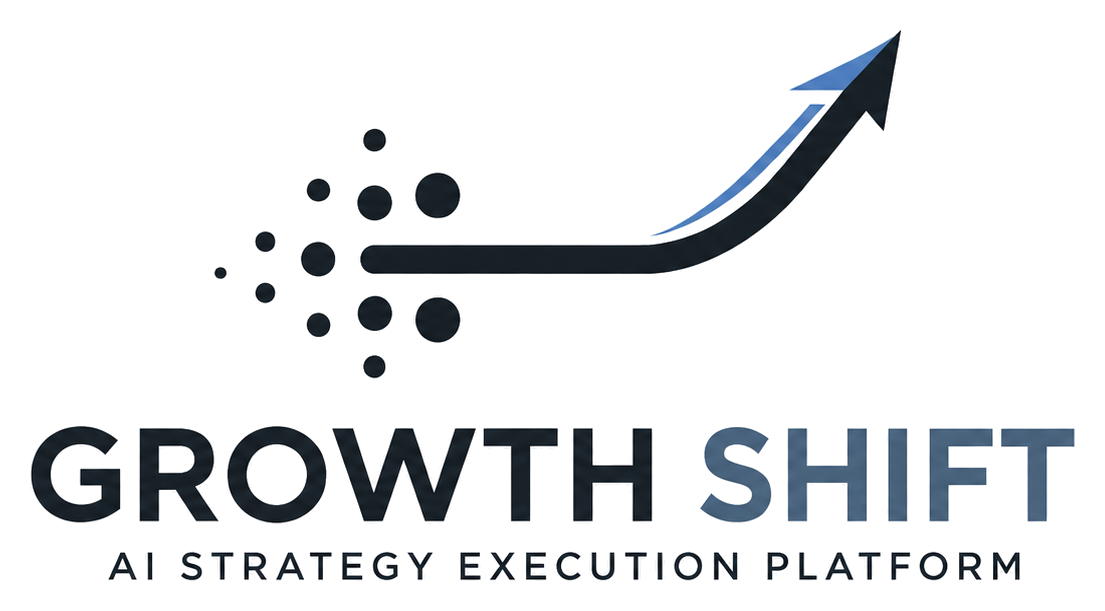
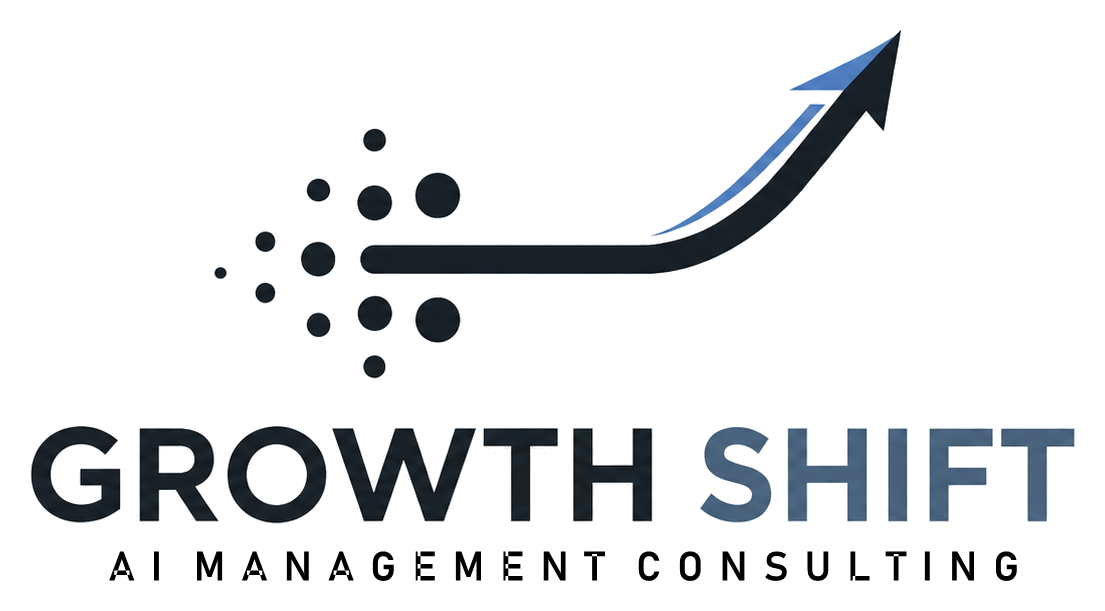
feat(home): トップの導線ボタンを削除し、サイドバーロゴの英字表記を変更する

Changed region(s): [[0.0923, 0.9018, 0.9231, 0.964]]

diff --git a/app/page.tsx b/app/page.tsx
@@ -1,7 +1,6 @@
 'use client';
 
 import { useEffect } from 'react';
-import Link from 'next/link';
 import PyramidNavigator from '@/components/home/PyramidNavigator';
 import ExecutionPanel from '@/components/home/ExecutionPanel';
 import { ExportPdfButton } from '@/components/export/ExportPdfButton';
@@ -31,7 +30,7 @@ export default function Home() {
     <main className="min-h-screen bg-neutral-50 text-neutral-900">
       {/* ===== Hero ===== */}
       <section className="border-b border-neutral-200/60 bg-neutral-50 xl:dark:border-neutral-900 xl:dark:bg-neutral-950">
-        <div className="container mx-auto px-6 pt-10 pb-4 sm:pt-12 sm:pb-5 lg:pt-14 lg:pb-6">
+        <div className="container mx-auto px-6 pt-10 pb-8 sm:pt-12 sm:pb-10 lg:pt-14 lg:pb-12">
           <div className="mx-auto max-w-3xl text-center">
             <motion.h1
               initial={{ opacity: 0, y: 12 }}
@@ -60,26 +59,6 @@ export default function Home() {
               
 
             </motion.p>
-
-            <motion.div
-              initial={{ opacity: 0, y: 14 }}
-              animate={{ opacity: 1, y: 0 }}
-              transition={{ duration: 0.74, delay: 0.18 }}
-              className="mt-6 flex items-center justify-center gap-3 sm:flex-row"
-            >
-              <Link
-                href="/stage1"
-                className="inline-flex items-center justify-center rounded-full bg-gray-900 px-6 py-2.5 text-[14px] font-semibold text-white shadow-[0_14px_36px_rgba(0,0,0,0.14)] transition hover:-translate-y-0.5 hover:opacity-95 xl:dark:bg-neutral-950"
-              >
-                さっそく始める
-              </Link>
-              <Link
-                href="/report"
-                className="inline-flex items-center justify-center rounded-full border-2 border-gray-900 px-6 py-2 text-[14px] font-semibold text-gray-900 transition hover:-translate-y-0.5 hover:bg-gray-100 xl:dark:border-white xl:dark:text-white xl:dark:hover:bg-neutral-950"
-              >
-                経営計画書を見る
-              </Link>
-            </motion.div>
           </div>
         </div>
       </section>
